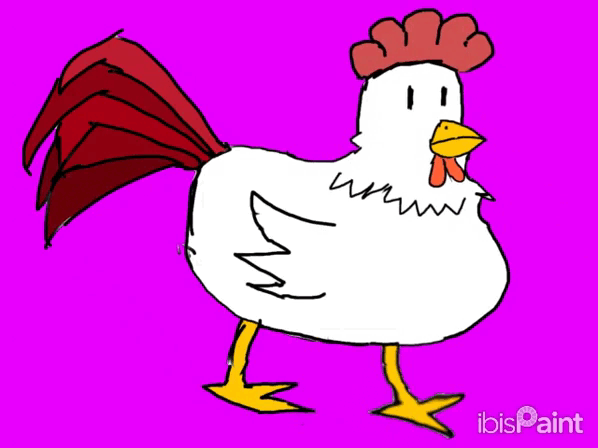
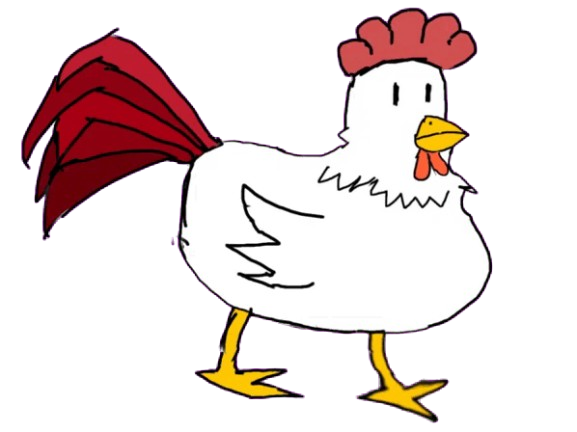
el pollo ya es transparente

diff --git a/Main.py b/Main.py
@@ -24,9 +24,9 @@ if __name__ == '__main__':
 
     for i in range (10):
         img = pygame.image.load(f"models/images/{i}.png")
-        image= pygame.transform.scale(img, (200,100))
+        image= pygame.transform.scale(img, (100,40))
         animations.append(image)
-    chick = Chick(200, 100, scroll_speed, 100, animations, 40, 520, gravity)
+    chick = Chick(100, 40, scroll_speed, 40, animations, 40, 40, gravity)
     #chick2= Chick(200,100, scroll_speed, 100, "models/images/perry.png", 40, 520, gravity)
     map_surface.set_map_surface()
 

diff --git a/Models/Animal.py b/Models/Animal.py
@@ -12,7 +12,7 @@ class Animal:
         self.frame_index = 0
         self.update_time= pygame.time.get_ticks()
         self.image = self.animations[ self.frame_index]
-        self.image= pygame.transform.scale(self.image, (200,100))
+        self.image= pygame.transform.scale(self.image, (40,30))
         self.hitbox = pygame.Rect(x, y, size, size)
         #self.max_y = max_y
         #self.min_y = min_y
